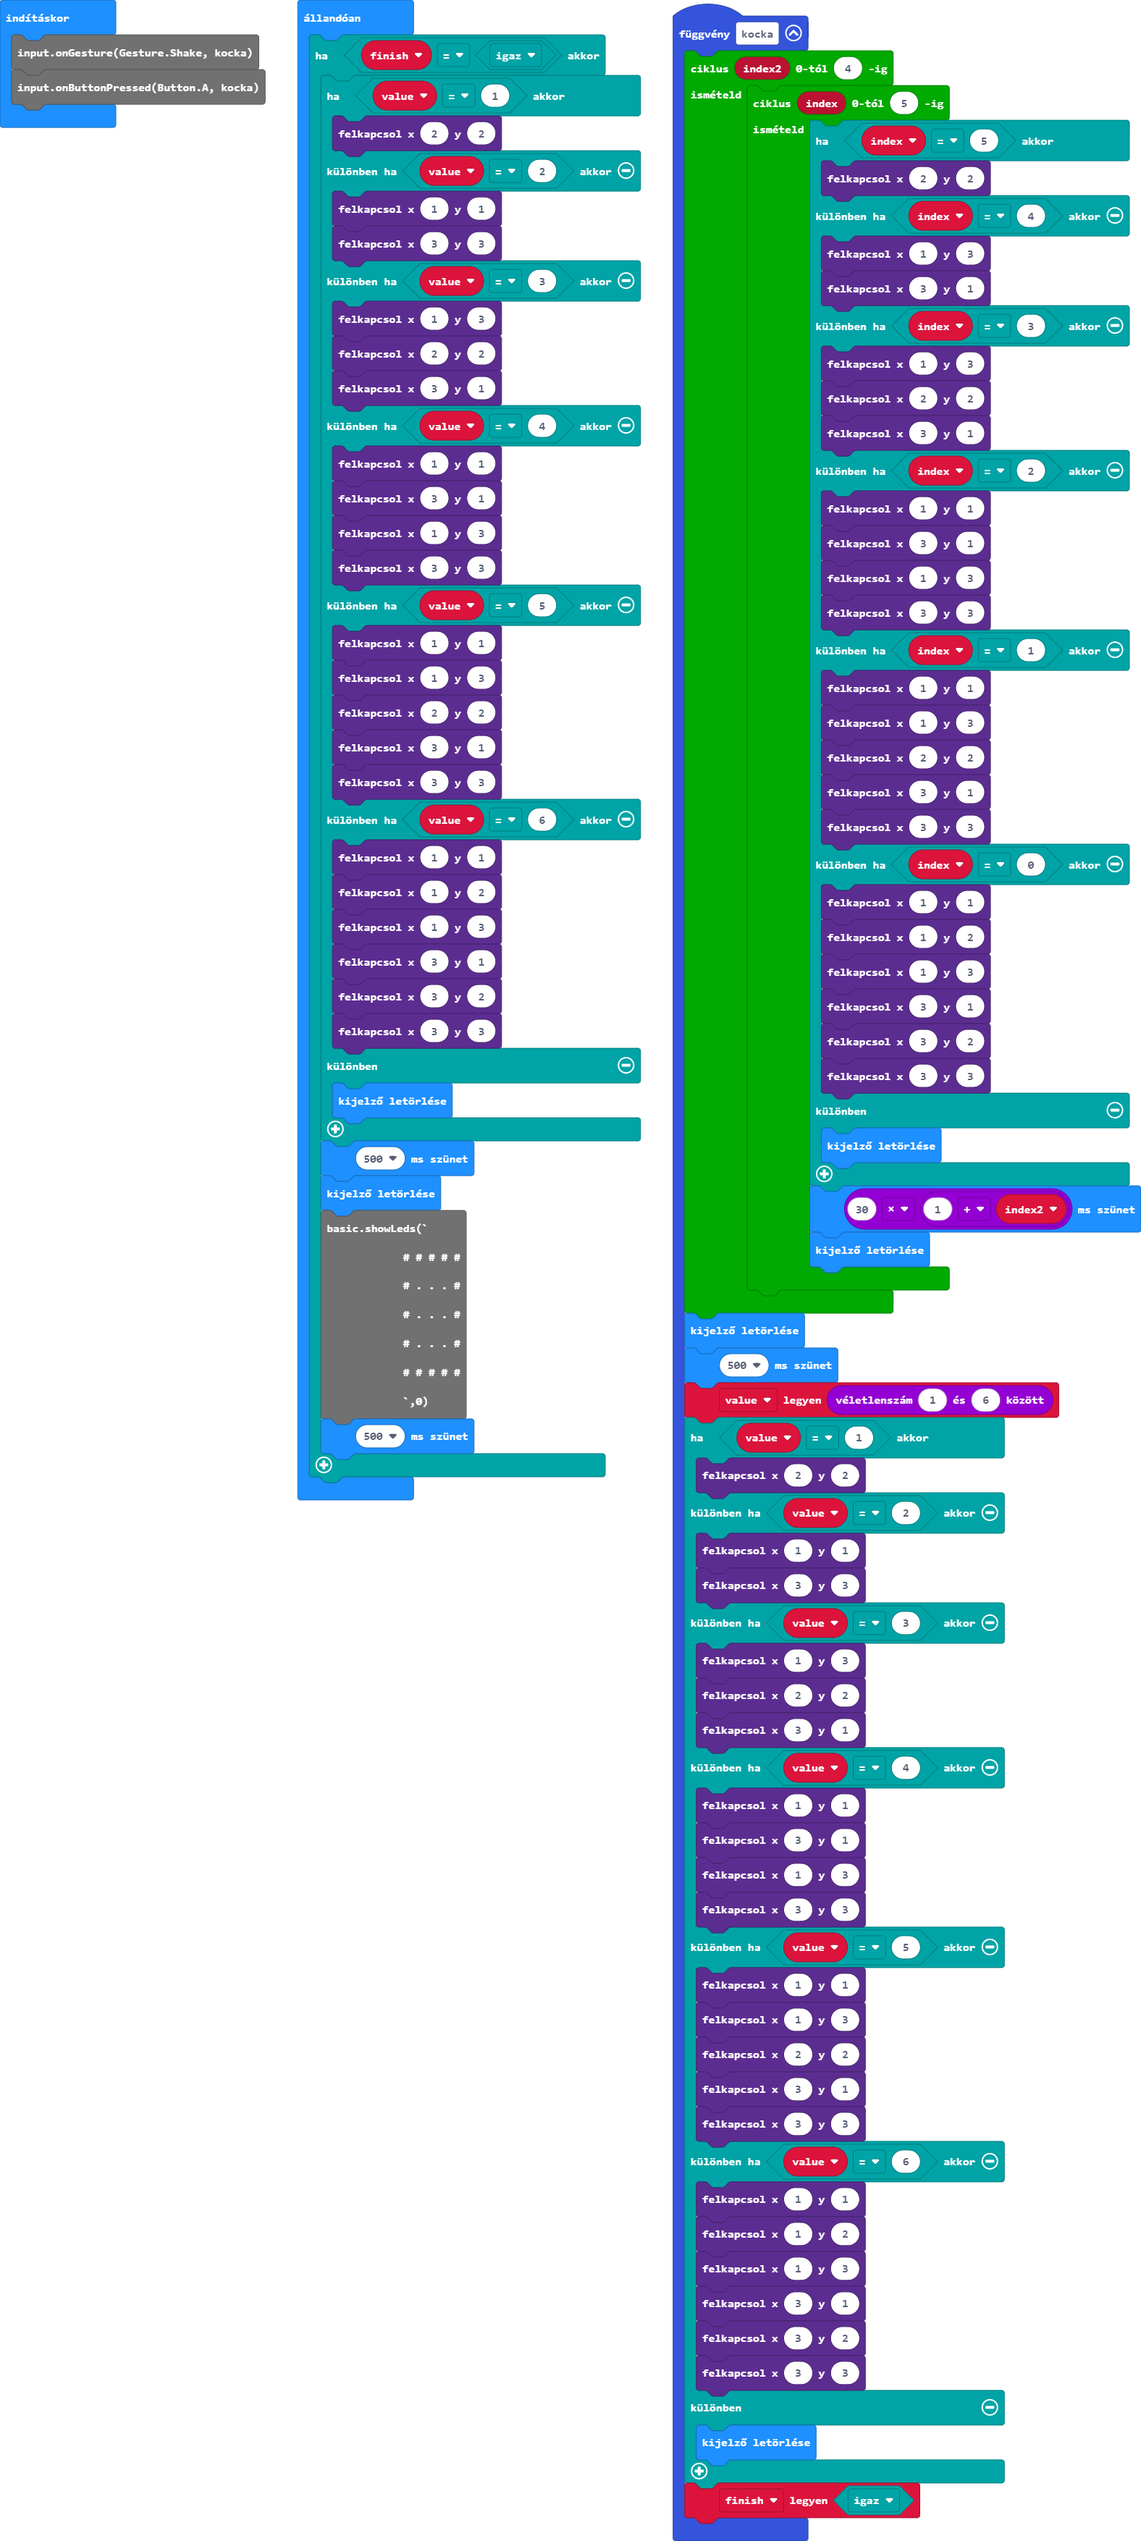
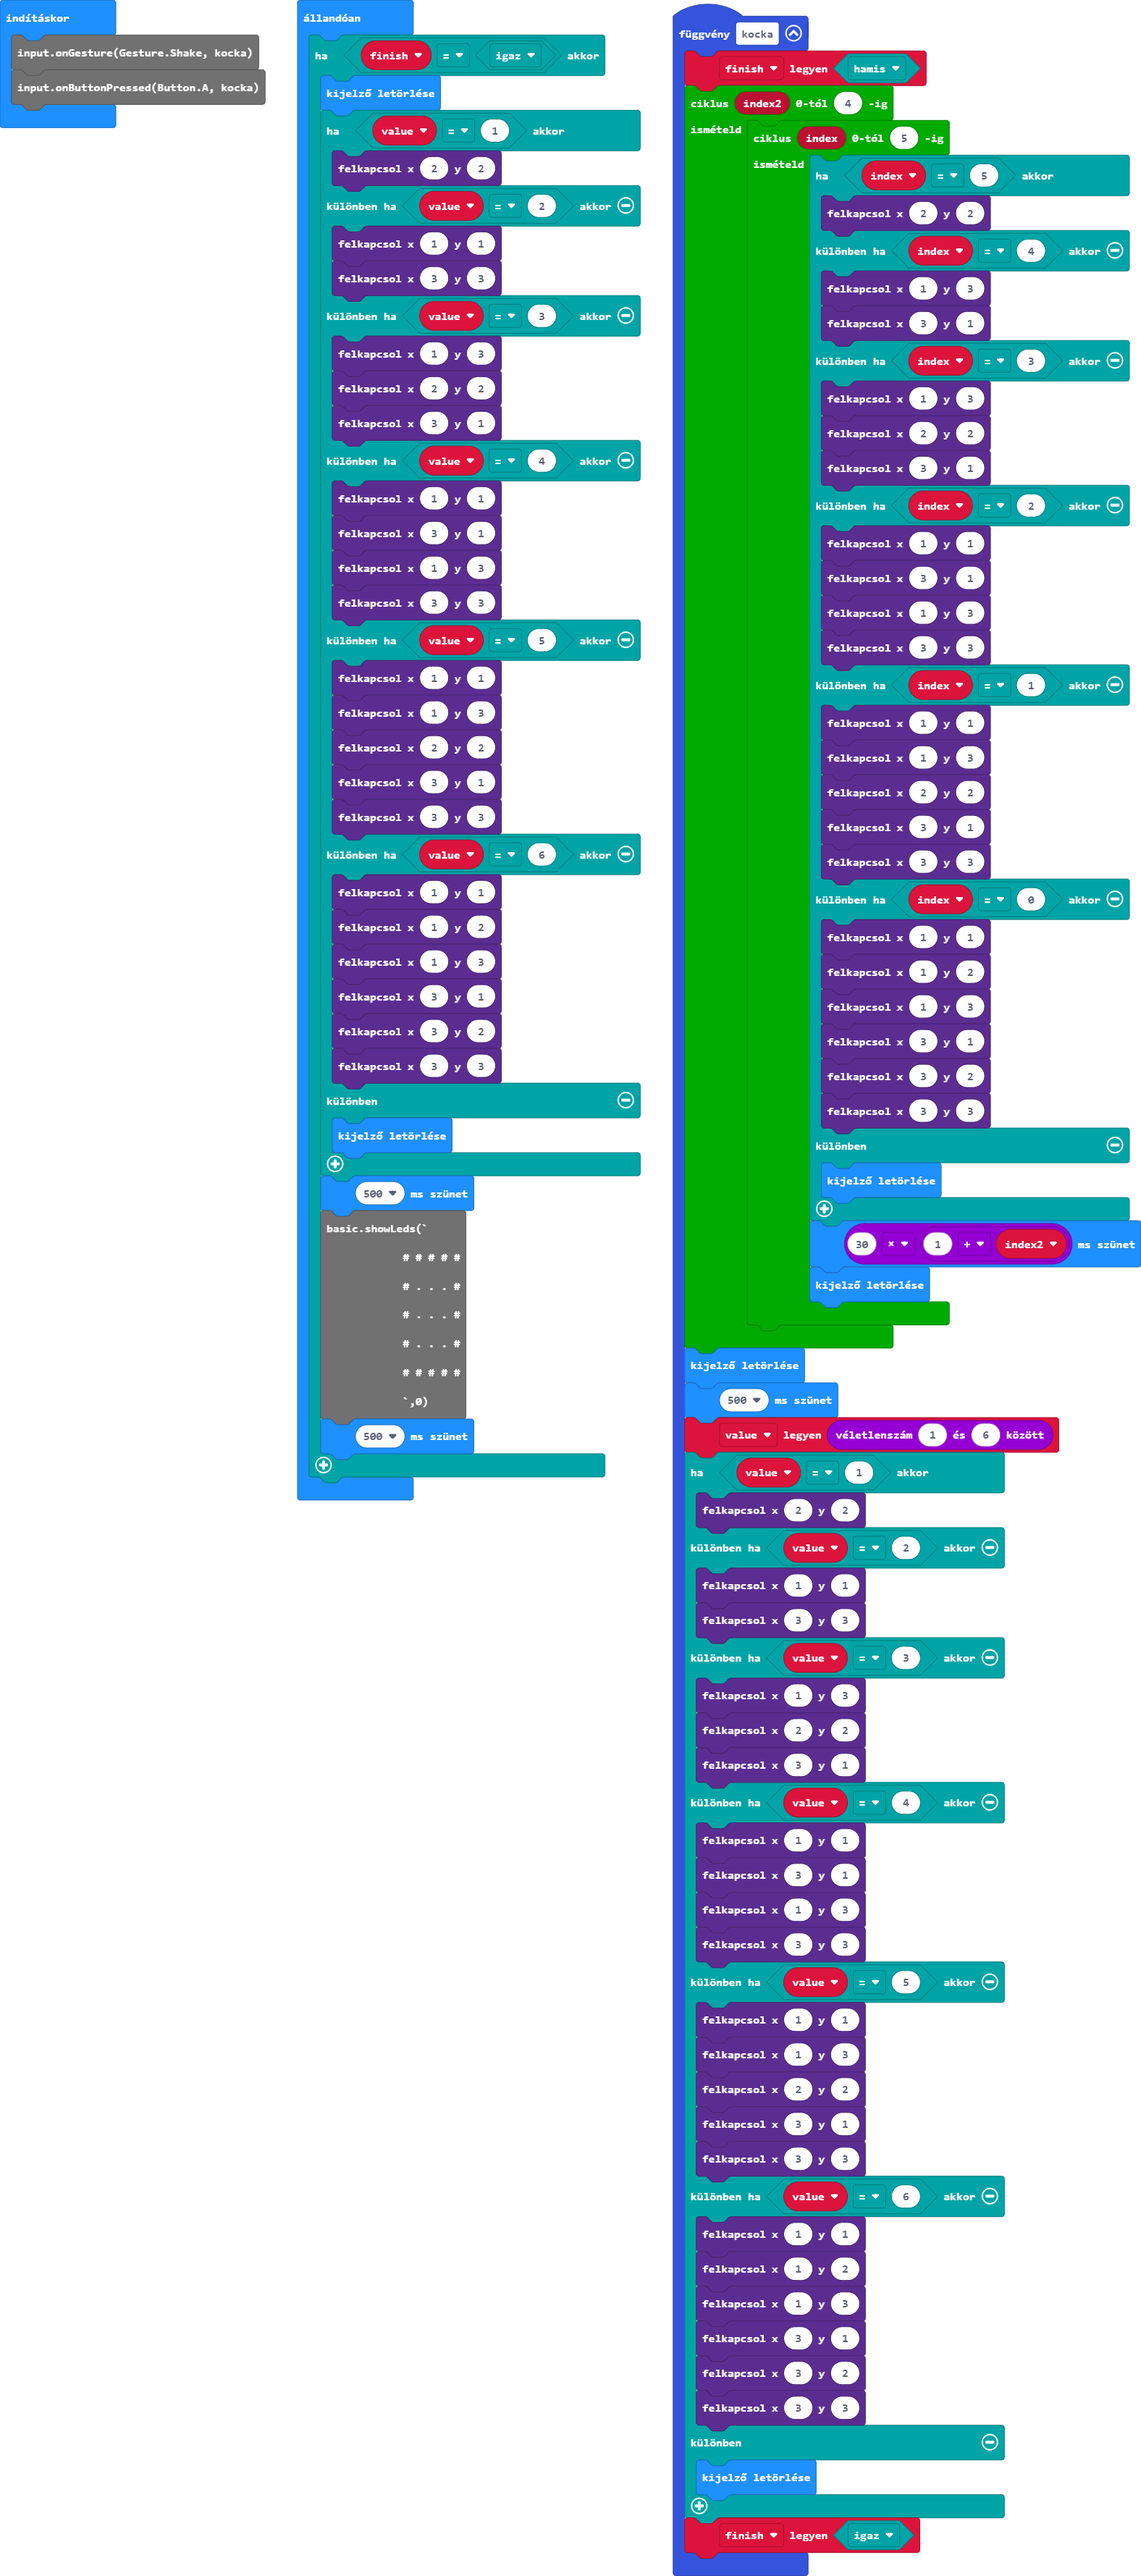
bugfix2

diff --git a/main.ts b/main.ts
@@ -1,4 +1,5 @@
 function kocka () {
+    finish = false
     for (let index2 = 0; index2 <= 4; index2++) {
         for (let index = 0; index <= 5; index++) {
             if (index == 5) {
@@ -70,8 +71,8 @@ function kocka () {
     }
     finish = true
 }
-let finish = false
 let value = 0
+let finish = false
 input.onGesture(Gesture.Shake, kocka)
 input.onButtonPressed(Button.A, kocka)
 basic.forever(function () {
